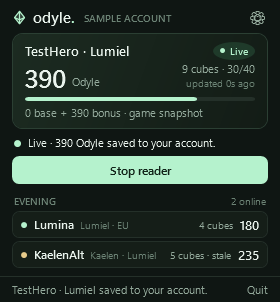
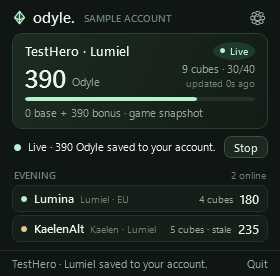
Start the reader on connect, compact toggle, clearer midstream state
The game sends Odyle only at login or channel change, so the reader now
starts as soon as the app connects to the account. The full-width reader
button becomes a small Start/Stop/Connect toggle beside the status line.

A closing connection's FIN/RST or empty ACK no longer opens a new
midstream stream, a new game connection clears the midstream warning,
and a re-sent unchanged value returns the status to Live instead of
staying on "saving". Previews regenerated.

diff --git a/src/Odyle.Reader/MainWindow.xaml b/src/Odyle.Reader/MainWindow.xaml
@@ -33,13 +33,15 @@
     </StackPanel>
    </Border>
 
-   <!-- Packet reader -->
-   <!-- Packet counts sit in the row's tooltip while the reader runs -->
-   <DockPanel x:Name="ReaderRow" Margin="0,7,0,0" Background="Transparent" ToolTipService.IsEnabled="False">
-    <DockPanel.ToolTip><TextBlock x:Name="CaptureStatsLabel"/></DockPanel.ToolTip>
-    <Ellipse x:Name="ReaderDot" DockPanel.Dock="Left" Width="7" Height="7" Fill="{StaticResource Faint}" Margin="2,4,7,0" VerticalAlignment="Top"/><TextBlock x:Name="PacketStateLabel" Text="Stopped · start the reader before logging in." Foreground="{StaticResource Muted}" FontSize="10.5" TextWrapping="Wrap"/>
+   <!-- Packet reader: status line with a compact start/stop toggle -->
+   <!-- Packet counts sit in the status tooltip while the reader runs -->
+   <DockPanel Margin="0,7,0,0">
+    <Button x:Name="ReportButton" DockPanel.Dock="Right" Content="Connect" Click="Reader_Click" Margin="8,0,0,0" MinHeight="22" Padding="10,2" FontSize="11" VerticalAlignment="Center" ToolTip="Reads the game's own packets with Npcap. Nothing is injected."/>
+    <DockPanel x:Name="ReaderRow" Background="Transparent" ToolTipService.IsEnabled="False" VerticalAlignment="Center">
+     <DockPanel.ToolTip><TextBlock x:Name="CaptureStatsLabel"/></DockPanel.ToolTip>
+     <Ellipse x:Name="ReaderDot" DockPanel.Dock="Left" Width="7" Height="7" Fill="{StaticResource Faint}" Margin="2,4,7,0" VerticalAlignment="Top"/><TextBlock x:Name="PacketStateLabel" Text="Stopped · start the reader before logging in." Foreground="{StaticResource Muted}" FontSize="10.5" TextWrapping="Wrap"/>
+    </DockPanel>
    </DockPanel>
-   <Button x:Name="ReportButton" Content="Connect in settings" Click="Reader_Click" Margin="0,6,0,0" MinHeight="28" Padding="12,4" ToolTip="Reads the game's own packets with Npcap. Nothing is injected."/>
 
    <!-- Party: other members' characters that are online in your rooms, one header per room -->
    <StackPanel x:Name="PartyPanel" Visibility="Collapsed" Margin="0,4,0,0">

diff --git a/src/Odyle.Reader/MainWindow.xaml.cs b/src/Odyle.Reader/MainWindow.xaml.cs
@@ -118,7 +118,13 @@ public partial class MainWindow : Window
     {
         settings.JoinPanel.Visibility = connected ? Visibility.Collapsed : Visibility.Visible;
         settings.AccountPanel.Visibility = settings.RoomsPanel.Visibility = connected ? Visibility.Visible : Visibility.Collapsed;
-        if (capture is null) ReportButton.Content = connected ? "Start reader" : "Connect in settings";
+        RenderReaderButton();
+    }
+    // Compact toggle beside the reader status: mint to start or connect, quiet while reading.
+    private void RenderReaderButton()
+    {
+        ReportButton.Content = capture is not null ? "Stop" : api is not null ? "Start" : "Connect";
+        if (capture is not null) ReportButton.Style = (Style)FindResource("Secondary"); else ReportButton.ClearValue(StyleProperty);
     }
 
     // ----- Presentation -----
@@ -269,6 +275,8 @@ public partial class MainWindow : Window
             api.Dispose(); api = null; settings.RetryButton.Visibility = Visibility.Visible; settings.ServerOptions.IsExpanded = true; ShowConnected(false);
             Status("Server unavailable. Your connection is saved; reconnect in settings when it is back online.");
         }
+        // The game sends Odyle only at login, so read from the moment the account is connected.
+        if (api is not null && capture is null) await StartReaderAsync();
     }
     private async Task ConnectAsync(AuthResponse auth)
     {
@@ -278,7 +286,7 @@ public partial class MainWindow : Window
         settings.AccountDetail.Text = $"Signed in as {accountName} via Discord · {host}";
         settings.RetryButton.Visibility = Visibility.Collapsed; ShowConnected(true);
         await ReloadAsync();
-        Status("Connected · start the reader, then log into your character.");
+        Status("Connected to your account.");
         lastTick = DateTimeOffset.UtcNow; needsReconnect = false; heartbeat.Start();
         await RefreshPartyAsync(); partyTimer.Start();
     }
@@ -313,6 +321,7 @@ public partial class MainWindow : Window
         var next = new PartyApi(connection.Endpoint); Status("Pairing with your account…");
         try { var auth = await next.PairAsync(connection.Code); api?.Dispose(); api = next; settings.EndpointInput.Text = connection.Endpoint; SessionStore.Save(new SavedSession(connection.Endpoint, auth.Token)); settings.CodeInput.Clear(); await ConnectAsync(auth); }
         catch { if (api != next) next.Dispose(); throw; }
+        if (capture is null) await StartReaderAsync();
     }
     private void UpdateCharacterInList(Character saved)
     {
@@ -356,7 +365,7 @@ public partial class MainWindow : Window
         if (old is not null) await old.DisposeAsync();
         await InvalidateActiveAsync();
         latest = null; publishFailure = null;
-        ReportButton.Content = api is null ? "Connect in settings" : "Start reader"; ToolTipService.SetIsEnabled(ReaderRow, false);
+        RenderReaderButton(); ToolTipService.SetIsEnabled(ReaderRow, false);
         SetReaderState(ReaderState.Stopped, old is null ? "Stopped · start the reader before logging in." : "Stopped · the last value stays saved on your account.");
         RenderHero();
     }
@@ -365,40 +374,45 @@ public partial class MainWindow : Window
         if (api is null && capture is null) { OpenSettings(); return; }
         await ExecuteAsync(async () =>
         {
-            if (capture is not null) { await StopReaderAsync(); return; }
-            if (api is null) return;
-            var next = new PacketCapture();
-            next.Status += (kind, message) => Dispatcher.BeginInvoke(() =>
-            {
-                if (capture != next) return;
-                SetReaderState(kind switch { CaptureStatus.Listening => ReaderState.Listening, CaptureStatus.Midstream => ReaderState.Midstream, CaptureStatus.Problem => ReaderState.Problem, _ => ReaderState.Waiting }, message);
-            });
-            next.Candidate += observation => Dispatcher.BeginInvoke(() => OnCandidate(next, observation));
-            next.CharacterChanged += () => Dispatcher.BeginInvoke(async () =>
-            {
-                if (capture != next) return;
-                await operations.WaitAsync();
-                try
-                {
-                    if (capture != next) return;
-                    // The game switched characters on this connection. Until it names the
-                    // new one, no reading may be attributed to either character.
-                    gameCharacterKey = UnknownOwner; gameCharacterName = ""; detectedCharacterKey = ""; ownerEntity = null;
-                    if (readingOwnerKey.Length > 0) { latest = null; readingOwnerKey = ""; }
-                    await InvalidateActiveAsync(); SetReaderState(ReaderState.Listening, "Character changed · detecting the new character."); RenderHero();
-                }
-                finally { operations.Release(); }
-            });
-            next.IdentityObserved += identity => Dispatcher.BeginInvoke(async () => await SaveDetectedCharacterAsync(next, identity));
+            if (capture is not null) await StopReaderAsync();
+            else if (api is not null) await StartReaderAsync();
+        });
+    }
+    private async Task StartReaderAsync()
+    {
+        var next = new PacketCapture();
+        next.Status += (kind, message) => Dispatcher.BeginInvoke(() =>
+        {
+            if (capture != next) return;
+            // A new game connection while a reading is live keeps the live line.
+            if (kind == CaptureStatus.Listening && readerState == ReaderState.Live) return;
+            SetReaderState(kind switch { CaptureStatus.Listening => ReaderState.Listening, CaptureStatus.Midstream => ReaderState.Midstream, CaptureStatus.Problem => ReaderState.Problem, _ => ReaderState.Waiting }, message);
+        });
+        next.Candidate += observation => Dispatcher.BeginInvoke(() => OnCandidate(next, observation));
+        next.CharacterChanged += () => Dispatcher.BeginInvoke(async () =>
+        {
+            if (capture != next) return;
+            await operations.WaitAsync();
             try
             {
-                next.Start(); capture = next; lastGameBytes = 0; latest = null; publishedTotal = -1; publishFailure = null; publishBlockedUntil = DateTimeOffset.MinValue; ResetAttribution();
-                ReportButton.Content = "Stop reader"; CaptureStatsLabel.Text = "Waiting for packets…"; ToolTipService.SetIsEnabled(ReaderRow, true);
-                SetReaderState(ReaderState.Waiting, "Waiting for the AION2 game connection…");
-                Status("Reader running · log into your character to read its Odyle.");
+                if (capture != next) return;
+                // The game switched characters on this connection. Until it names the
+                // new one, no reading may be attributed to either character.
+                gameCharacterKey = UnknownOwner; gameCharacterName = ""; detectedCharacterKey = ""; ownerEntity = null;
+                if (readingOwnerKey.Length > 0) { latest = null; readingOwnerKey = ""; }
+                await InvalidateActiveAsync(); SetReaderState(ReaderState.Listening, "Character changed · detecting the new character."); RenderHero();
             }
-            catch { await next.DisposeAsync(); throw; }
+            finally { operations.Release(); }
         });
+        next.IdentityObserved += identity => Dispatcher.BeginInvoke(async () => await SaveDetectedCharacterAsync(next, identity));
+        try
+        {
+            next.Start(); capture = next; lastGameBytes = 0; latest = null; publishedTotal = -1; publishFailure = null; publishBlockedUntil = DateTimeOffset.MinValue; ResetAttribution();
+            RenderReaderButton(); CaptureStatsLabel.Text = "Waiting for packets…"; ToolTipService.SetIsEnabled(ReaderRow, true);
+            SetReaderState(ReaderState.Waiting, "Waiting for the AION2 game connection…");
+            Status("Reader running · log into your character to read its Odyle.");
+        }
+        catch { await next.DisposeAsync(); throw; }
     }
     private void OnCandidate(PacketCapture source, PacketCandidate observation)
     {
@@ -446,7 +460,12 @@ public partial class MainWindow : Window
             SetReaderState(ReaderState.Listening, $"Read {reading.Total:N0} Odyle · this character's server is not supported, so it is not saved."); RenderHero(); return;
         }
         if (DateTimeOffset.UtcNow < publishBlockedUntil) return;
-        if (publishedTotal == reading.Total && activeCharacterId == character.Id) return;
+        // A fresh snapshot of the value already saved (reconnect, channel change) is live again.
+        if (publishedTotal == reading.Total && activeCharacterId == character.Id)
+        {
+            if (readerState == ReaderState.Listening) SetReaderState(ReaderState.Live, $"Live · {reading.Total:N0} Odyle saved to your account.");
+            return;
+        }
         try
         {
             var saved = await api.ReportAsync(new PacketReading(sessionId, ++sequence, character.CharacterName, character.Server, character.Region, reading.Total, reading.ParserVersion, character.Id));

diff --git a/tests/Odyle.Reader.Checks/Program.cs b/tests/Odyle.Reader.Checks/Program.cs
@@ -26,7 +26,7 @@ static class ReaderChecks
                 Check(window.FindName("CharactersInput") is null && window.FindName("CharacterInput") is null, "the main window offers no way to pick or type a character");
                 Check(settings.FindName("CodeInput") is PasswordBox && window.FindName("CodeInput") is null, "pairing lives in the settings window");
                 Check(settings.FindName("SharingList") is ItemsControl && settings.FindName("InviteInput") is null && settings.FindName("RoomsList") is null, "rooms and sharing are managed on the dashboard; settings only summarizes them");
-                Check(Control<Button>(window, "ReportButton").Content as string == "Connect in settings", "an unpaired reader points to settings");
+                Check(Control<Button>(window, "ReportButton").Content as string == "Connect", "an unpaired reader points to settings");
                 Check(Control<TextBlock>(window, "ValueLabel").Text == "—", "no value is shown before a reading");
                 var root = (FrameworkElement)settings.Content;
                 root.Width = 300; root.Height = 480; root.Measure(new Size(300, 480)); root.Arrange(new Rect(0, 0, 300, 480)); root.UpdateLayout();
@@ -58,7 +58,7 @@ static class ReaderChecks
                     Field("api").SetValue(window, api);
                     await (Task)Call(window, "ConnectAsync", auth)!;
                     Check((await api.GetCharactersAsync()).Length == 0, "test account starts empty");
-                    Check(Control<Button>(window, "ReportButton").Content as string == "Start reader", "a paired account can start the reader");
+                    Check(Control<Button>(window, "ReportButton").Content as string == "Start", "a paired account can start the reader");
                     var capture = new PacketCapture(); Field("capture").SetValue(window, capture);
                     var detected = new GameIdentity(42, "DetectedHero", 2304, "Lumiel", "GLOBAL_EU");
                     await (Task)Call(window, "SaveDetectedCharacterAsync", capture, detected)!;
@@ -136,7 +136,7 @@ static class ReaderChecks
         Call(window, "ShowConnected", true); Call(window, "RenderRooms");
         Snapshot(settings, Path.Combine(directory, "settings-preview.png"), 320);
         var inert = new PacketCapture(); Field("capture").SetValue(window, inert);
-        Control<Button>(window, "ReportButton").Content = "Stop reader";
+        Call(window, "RenderReaderButton");
         Field("detectedCharacterKey").SetValue(window, "TestHero|2304"); Field("gameCharacterKey").SetValue(window, "TestHero|2304");
         Call(window, "OnCandidate", inert, new PacketCandidate(390, 7, ExperimentalOdyleDecoder.Version) { Primary = 0, Bonus = 390 });
         Field("readingOwnerKey").SetValue(window, "TestHero|2304"); Field("activeCharacterId").SetValue(window, "c1");
@@ -146,6 +146,9 @@ static class ReaderChecks
         Control<TextBlock>(window, "CaptureStatsLabel").Text = "1,284 packets · 96 KB from the game";
         Control<TextBlock>(window, "StatusLabel").Text = "TestHero · Lumiel saved to your account.";
         Snapshot(window, Path.Combine(directory, "compact-preview.png"));
+        Field("latest").SetValue(window, null); Call(window, "RenderHero");
+        Call(window, "SetReaderState", Enum.Parse(state, "Midstream"), "Started after login · change channel or relog once so the game resends Odyle.");
+        Snapshot(window, Path.Combine(directory, "midstream-preview.png"));
         Field("capture").SetValue(window, null);
         Console.WriteLine("Rendered previews to " + directory);
     }

diff --git a/src/Odyle.Reader/PacketCapture.cs b/src/Odyle.Reader/PacketCapture.cs
@@ -144,19 +144,25 @@ public sealed class PacketCapture : IAsyncDisposable
                     var source = new IPAddress(bytes.AsSpan(ip + 12, 4)).ToString(); var destination = new IPAddress(bytes.AsSpan(ip + 16, 4)).ToString();
                     var flow = new Flow(destination, BinaryPrimitives.ReadUInt16BigEndian(bytes.AsSpan(tcp + 2)), source, BinaryPrimitives.ReadUInt16BigEndian(bytes.AsSpan(tcp)));
                     if (!flows.Contains(flow)) { flows = GameFlows(); if (!flows.Contains(flow)) continue; }
-                    Interlocked.Add(ref gameBytes, total - ipLength - tcpLength);
+                    var flags = bytes[tcp + 13]; var payloadLength = total - ipLength - tcpLength;
+                    Interlocked.Add(ref gameBytes, payloadLength);
+                    // FIN/RST ends the stream. A closing connection's last packets must not
+                    // open a new one, or a relog would look like a midstream start.
+                    if ((flags & 5) != 0) { streams.Remove(flow); continue; }
                     if (!streams.TryGetValue(flow, out var state))
                     {
-                        var aligned = (bytes[tcp + 13] & 2) != 0;
+                        var aligned = (flags & 2) != 0;
+                        if (!aligned && payloadLength == 0) continue;
                         var decoder = new ExperimentalOdyleDecoder(startsAligned: aligned); decoder.Candidate += c => Candidate?.Invoke(c);
                         // Joining an established connection means the startup snapshot already passed.
-                        if (!aligned) Status?.Invoke(CaptureStatus.Midstream, "Game already connected · relog or change channel so the reader sees the Odyle snapshot.");
+                        // A new connection replaces that warning: its snapshot is still to come.
+                        if (aligned) Status?.Invoke(CaptureStatus.Listening, "Listening to AION2 · waiting for the Odyle snapshot.");
+                        else Status?.Invoke(CaptureStatus.Midstream, "Started after login · change channel or relog once so the game resends Odyle.");
                         decoder.CharacterChanged += () => CharacterChanged?.Invoke(); decoder.FrameObserved += (opcode, size) => FrameObserved?.Invoke(opcode, size); decoder.UpdateObserved += value => UpdateObserved?.Invoke(value);
                         decoder.LayoutObserved += value => LayoutObserved?.Invoke(value);
                         decoder.IdentityObserved += value => IdentityObserved?.Invoke(value);
                         streams[flow] = state = (new(), decoder, false);
                     }
-                    if ((bytes[tcp + 13] & 5) != 0) { streams.Remove(flow); continue; }
                     if (state.Failed) continue;
                     foreach (var chunk in state.Tcp.Feed(BinaryPrimitives.ReadUInt32BigEndian(bytes.AsSpan(tcp + 4)), bytes.AsSpan(tcp + tcpLength, total - ipLength - tcpLength)))
                         state.Decoder.Feed(chunk);

diff --git a/docs/packet-reader.md b/docs/packet-reader.md
@@ -4,11 +4,11 @@ The Windows companion reads Odyle from the game's own network traffic and publis
 
 ## Local operation
 
-Install [Npcap](https://npcap.com/#download) separately. The app loads its installed library from the Windows system Npcap directory; no driver is bundled or installed automatically. Restricted Npcap installations may require capture permissions. Pair the app to your dashboard account, then **start the reader before logging the character into the game**. An empty account can start detection immediately; no prior character record is needed.
+Install [Npcap](https://npcap.com/#download) separately. The app loads its installed library from the Windows system Npcap directory; no driver is bundled or installed automatically. Restricted Npcap installations may require capture permissions. Pair the app to your dashboard account; the reader then starts by itself whenever the app connects, so **keep Odyle running before logging the character into the game**. An empty account can start detection immediately; no prior character record is needed.
 
 Npcap receives incoming TCP traffic from game port 13328. Before decoding a packet, the app checks that its IPv4 connection belongs to a process named AION2/AION-2 using the operating system's connection table, not game memory. Other processes and the game's HTTPS/login connections are ignored. The discovery filter stays open across reconnects so the initial handshake and snapshot are not lost to the two-second connection refresh. Ethernet, raw IPv4 and loopback link types are supported; IPv6, IP fragmentation, UDP, unsupported frame variants and encrypted payloads are not. It cannot decrypt or bypass game protection.
 
-Packet bytes remain in bounded in-memory buffers. The app does not save or upload raw traffic and never injects packets. Streams with malformed framing, conflicting retransmissions or persistent gaps are blocked until the connection changes. A midstream start waits for a complete protocol heartbeat to establish framing; it cannot recover a snapshot or identity that already passed, so the reader shows **Game already connected · relog or change channel** until a new snapshot arrives. A changed own-character ID clears the Odyle baseline and starts identifying the new character; an initial or repeated identity message alone is not a switch.
+Packet bytes remain in bounded in-memory buffers. The app does not save or upload raw traffic and never injects packets. Streams with malformed framing, conflicting retransmissions or persistent gaps are blocked until the connection changes. A midstream start waits for a complete protocol heartbeat to establish framing; it cannot recover a snapshot or identity that already passed, so the reader shows **Started after login · change channel or relog once** until a new snapshot arrives. The midstream stream still synchronizes on the heartbeat, so a snapshot sent on the same connection is read. A new game connection clears the warning, and the closing packets of an old connection (FIN, RST or an empty ACK) never open a new stream. A changed own-character ID clears the Odyle baseline and starts identifying the new character; an initial or repeated identity message alone is not a switch.
 
 ## What is published and when
 

diff --git a/README.md b/README.md
@@ -7,7 +7,7 @@ A .NET 10 WPF tray app for your **Discord-linked Odyle account**, persistent cha
 1. Start/configure the dashboard's backend and sign in on the web with Discord.
 2. On **My rooms & characters**, choose **Pair Windows app**, then **Copy connection link**.
 3. Open **Settings** (⚙) and click **Paste link & connect**. Settings opens by itself until the app is paired. The link includes the server address and a one-use code that expires after five minutes. You can also paste it into the input and press Enter. An older code-only connection works through the collapsed **Server address** option.
-4. Install Npcap from its official site and click **Start reader** before logging your character into the game. The character always comes from the game: its own-character message provides the name, server and Global region, and the app saves and shows that character automatically, following any in-game switch. There is no character picker or manual character entry; a character on a server the app cannot map yet is shown but not saved.
+4. Install Npcap from its official site. The reader starts by itself once the app is connected to your account, so keep Odyle running before logging your character into the game (**Stop**/**Start** beside the reader status toggles it). The character always comes from the game: its own-character message provides the name, server and Global region, and the app saves and shows that character automatically, following any in-game switch. There is no character picker or manual character entry; a character on a server the app cannot map yet is shown but not saved.
 5. Rooms and sharing are set on the dashboard: under **My rooms & characters → Room sharing**, switch on each room that should see each character (**Manage rooms & sharing ↗** in Settings opens it). Sharing is per character: a new character starts private. Create and join rooms there too. The app picks up changes by itself. Values remain saved when you leave a room or sign out.
 
 The app remembers your connection using Windows DPAPI, never Discord passwords or OAuth tokens. It reconnects when reopened and preserves credentials during temporary server outages; use **Reconnect saved account** to retry. Hosted connections require HTTPS; HTTP is allowed only on localhost.
